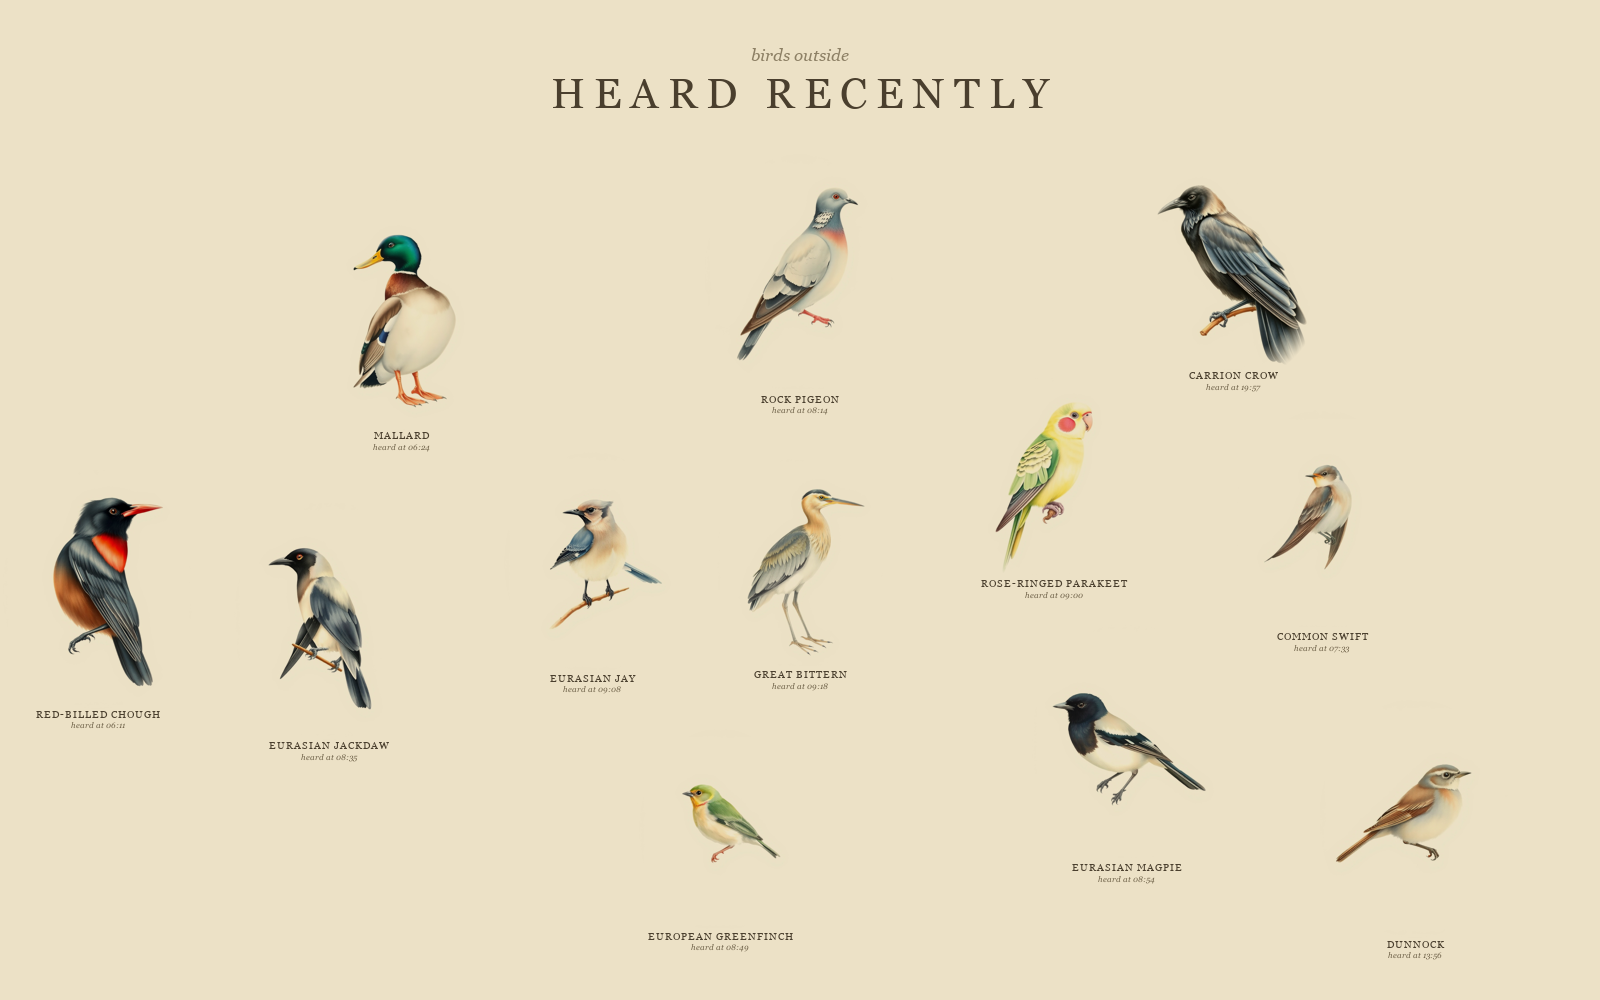
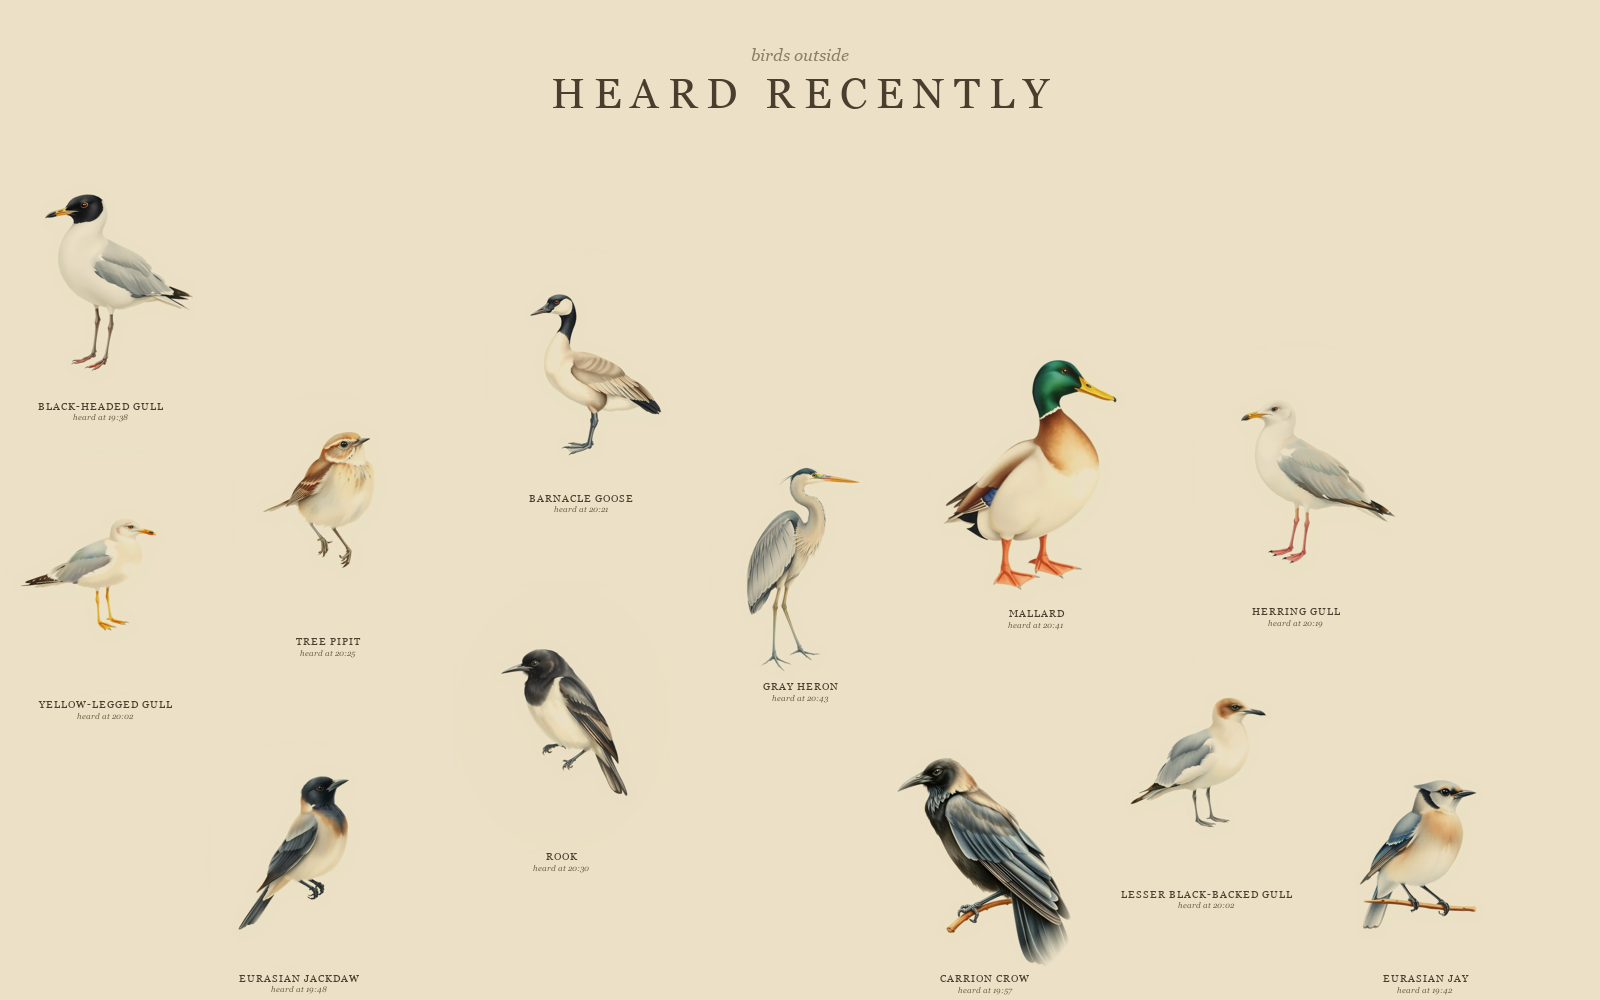
docs: hero is now a real single-wall snapshot, not a day's assembly
Round-1 flagged that the previous hero spanned ~14h of detections while the
TTL is 3h, so no real wall could have shown that set. Replaced it with a
genuine instant from the archive: twelve birds heard 19:38-20:43 on one
evening (65 min span, well inside the 3h TTL) — exactly what the wall showed
at 20:43. Caption states the window instead of carrying a disclaimer.

The instant was chosen for a clean run with no obvious mis-IDs; the set itself
is unedited (the wall's own newest-12 within TTL).

diff --git a/README.md b/README.md
@@ -13,9 +13,9 @@ No app. No buttons. Nothing to check. The garden writes the artwork.
 
 ![The wall: a collage of vintage-naturalist bird paintings on aged cream paper, each labelled with the species and the time it was heard](docs/wall.png)
 
-<sub>Real output — every bird above was heard on a microphone, identified by
-BirdNET, and painted on the spot. Assembled from a full day's detections; a
-live wall holds a few hours' worth at a time.</sub>
+<sub>An actual wall, one summer evening — every bird above was heard on a
+microphone between 19:38 and 20:43, identified by BirdNET, and painted on the
+spot.</sub>
 
 ---
 